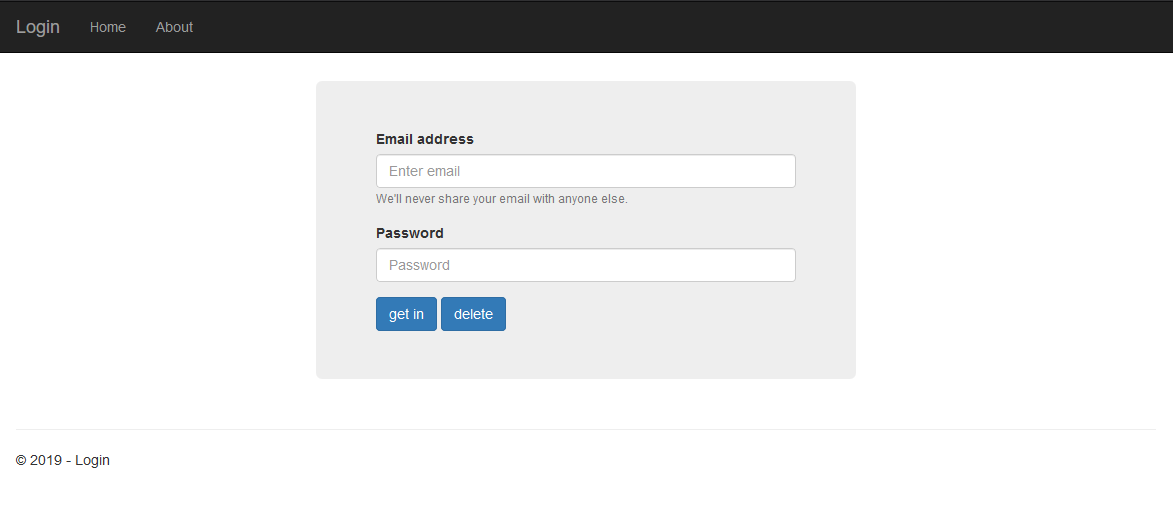
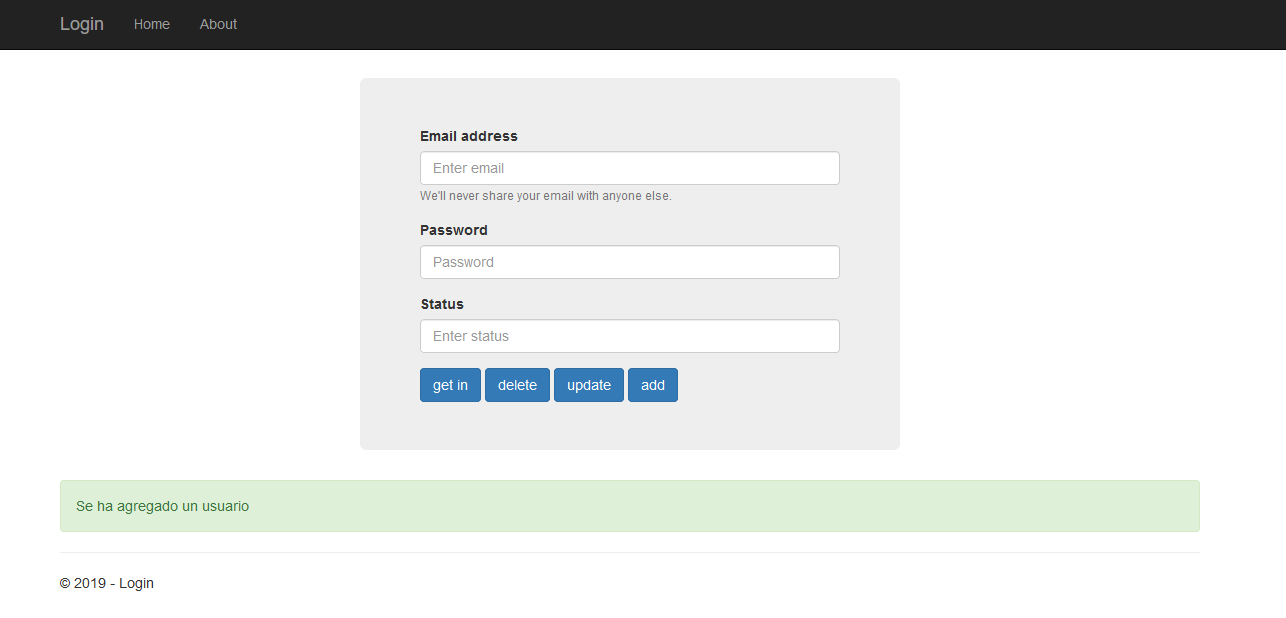
Se han agreagdo las acciones Add, Delete y Update

diff --git a/Controllers/HomeController.cs b/Controllers/HomeController.cs
@@ -12,7 +12,7 @@ namespace Login.Controllers
         }
 
         [HttpPost]
-        public IActionResult Index(string actions ,string email, string password)
+        public IActionResult Index(string actions ,string email, string password, string status)
         {
             UserCount userCount = new UserCount(email, password);
 
@@ -25,9 +25,21 @@ namespace Login.Controllers
                     else ViewData["Danger"] = "No es un usuario valido";
                     break;
                 case "delete":
-                    bool deleteUser = new UserCount().DeleteUserCount(userCount.idUserCount, null);
+                    if (new UserCount().DeleteUserCount(userCount.idUserCount, null))
+                        ViewData["Success"] = "Se han eliminado el usuario";
+                    break;
+                case "update":
 
-                    if (deleteUser) ViewData["Success"] = "Se han eliminado el usuario";
+                    if (new UserCount().UpdateUserCount(userCount))
+                        ViewData["Success"] = "Se ha actualizado el usuario";
+                    break;
+                case "add":
+                    userCount.email = email;
+                    userCount.password = password;
+                    userCount.status = int.Parse(status);
+
+                    if (new UserCount().AddUserCount(userCount))
+                        ViewData["Success"] = "Se ha agregado un usuario";
                     break;
             }
 
